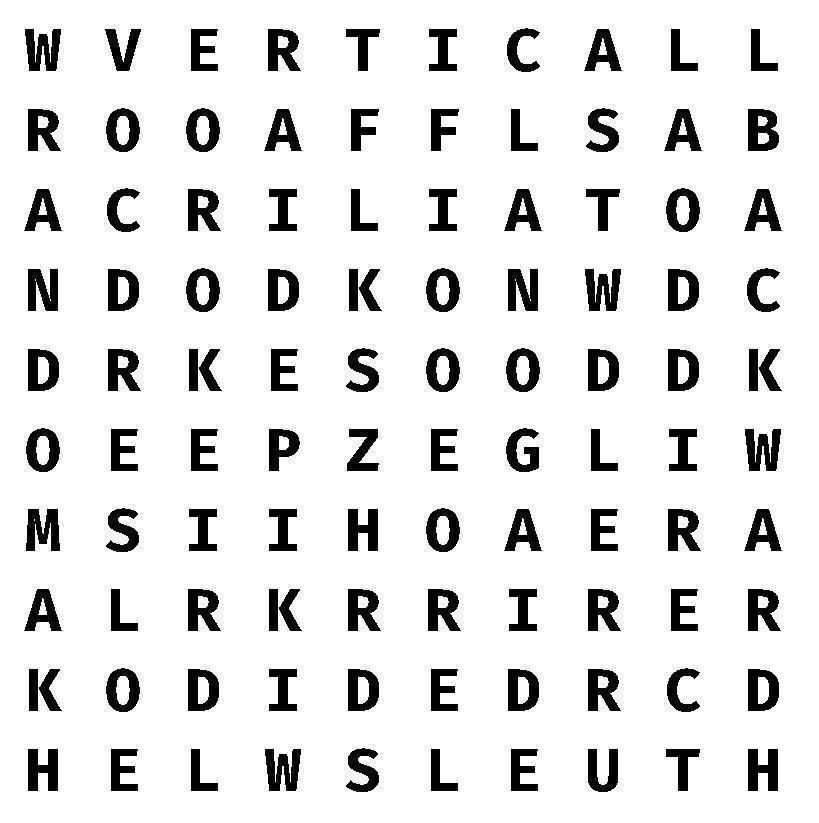
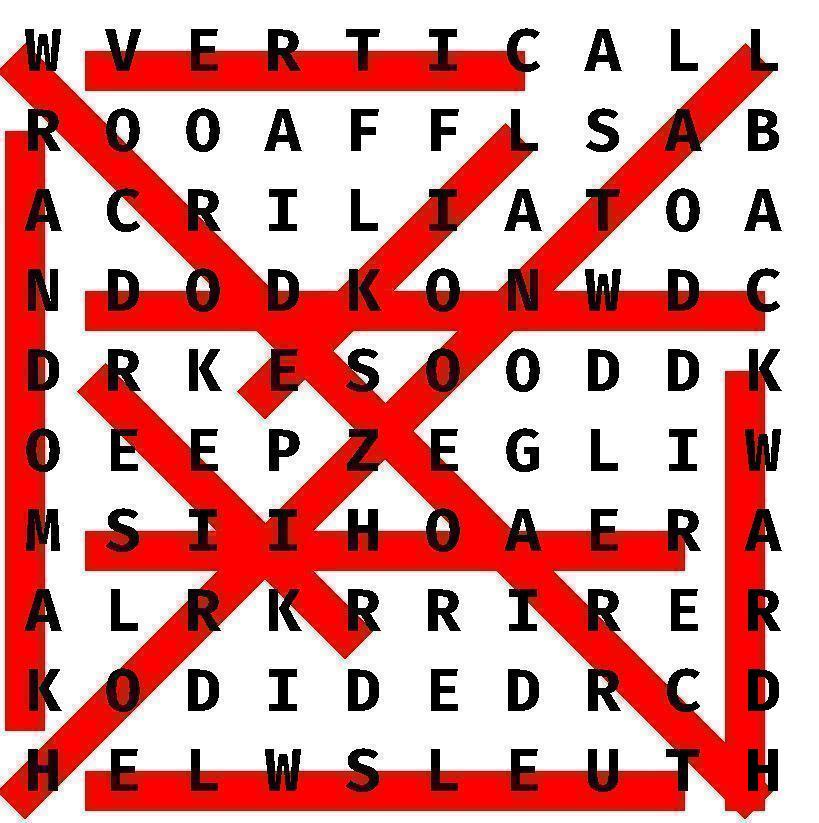
Line code completed

diff --git a/src/main/java/org/example/image_Creator.java b/src/main/java/org/example/image_Creator.java
@@ -1,11 +1,14 @@
 package org.example;
 import java.awt.*;
+import java.awt.geom.Line2D;
 import java.awt.image.RenderedImage;
 import java.io.*;
 import java.awt.image.BufferedImage;
 import javax.imageio.ImageIO;
 
 import static java.awt.Color.black;
+import static java.awt.Color.red;
+
 public class image_Creator {
     //drawCharacter method for adding individual characters to an image using the character, it's position in a 2D array, and the input and output image file names
     public static void drawCharacter(char chara, int xPos, int yPos, String inputImage, String outputImage) throws IOException, FontFormatException {
@@ -29,11 +32,41 @@ public class image_Creator {
         ImageIO.write(image, "jpg", new File(outputImage));
     }
 
+    public static void drawLine(int startX, int startY, int endX, int endY, String inputImage, String outputImage) throws IOException, FontFormatException {
+        //System.out.println("("+startX+","+startY+") ("+endX+","+endY+")");
+        //define the position of the letter
+        int xStart = 24 + 80 * startX + 1;
+        //System.out.println("X position of line start " + xStart);
+        int yStart = 70 + 80 * startY + 1;
+        //System.out.println("Y position of line start " + yStart);
+        int xEnd = 24 + 80 * endX + 1;
+        //System.out.println("X position of line end " + xEnd);
+        int yEnd = 70 + 80 * endY + 1;
+        //System.out.println("Y position of line end " + yEnd);
+        //read the image
+        BufferedImage image = ImageIO.read(new File(inputImage));
+        //get the Graphics object
+        Graphics g = image.getGraphics();
+        image_Creator.paintComponent(g,xStart,yStart,xEnd,yEnd);
+        g.dispose();
+        //write the image
+        ImageIO.write(image, "jpg", new File(outputImage));
+    }
+
+    public static void paintComponent(Graphics g, int startX, int startY, int endX, int endY) {
+        Graphics2D g2 = (Graphics2D) g;
+        g2.setColor(red);
+        g2.setStroke(new BasicStroke(40));
+        g2.draw(new Line2D.Float(startX, startY, endX, endY));
+    }
+
     //drawArray method to crop a blank image to the proper size, then loop the drawCharacter method to fill the cropped image with the 2D array, takes a 2D array as input
     public static void drawArray(char[][] inputArray) throws IOException, FontFormatException {
+
         //load the blank image
         File imageFile = new File("src/main/java/org/example/white-background-8K.jpg");
         BufferedImage bufferedImage = ImageIO.read(imageFile);
+
         //determine the height/width of the cropped image
         int outputImageHeight = 24+inputArray.length*(80);
         int outputImageLength = 20+inputArray[0].length*(80);
@@ -41,6 +74,12 @@ public class image_Creator {
         RenderedImage image = croppedImage;
         //save the cropped image
         ImageIO.write(image,"jpg", new File("src/main/java/org/example/outputImage.jpg"));
+
+        for(int i = 0; i<Image_Procs.getWords().size();i++){
+            drawLine(GFG.coords[i][0], GFG.coords[i][1], GFG.coords[i][2], GFG.coords[i][3], "src/main/java/org/example/outputImage.jpg", "src/main/java/org/example/outputImage.jpg");
+        }
+
+
         //loop to fill the blank image with the input 2D array
         for (int i = 0; i < inputArray.length; i++) {
             for (int j = 0; j < inputArray[i].length; j++) {

diff --git a/src/main/java/org/example/Main.java b/src/main/java/org/example/Main.java
@@ -18,7 +18,7 @@ public class Main {
         //Image_Procs.sudo_grid("src/main/java/org/example/Picture Uploads/be_safe_word_search-1.png","src/main/java/org/example/tessdata",true);
         char[][] puzzle = Image_Procs.getPuzzle();
         List<String> words = Image_Procs.getWords();
-        image_Creator.drawArray(puzzle);
+
         for(int i = 0; i<= words.size()-1; i++){
             GFG.patternSearch(puzzle,words.get(i));
             //Prints solution coordinate data found, temporary until final output is completed.
@@ -34,6 +34,7 @@ public class Main {
                             GFG.coords[i][3]+
                             ")");
         }
+        image_Creator.drawArray(puzzle);
         GUI.main(null);
         //word_Highlighter.paint();
     }
